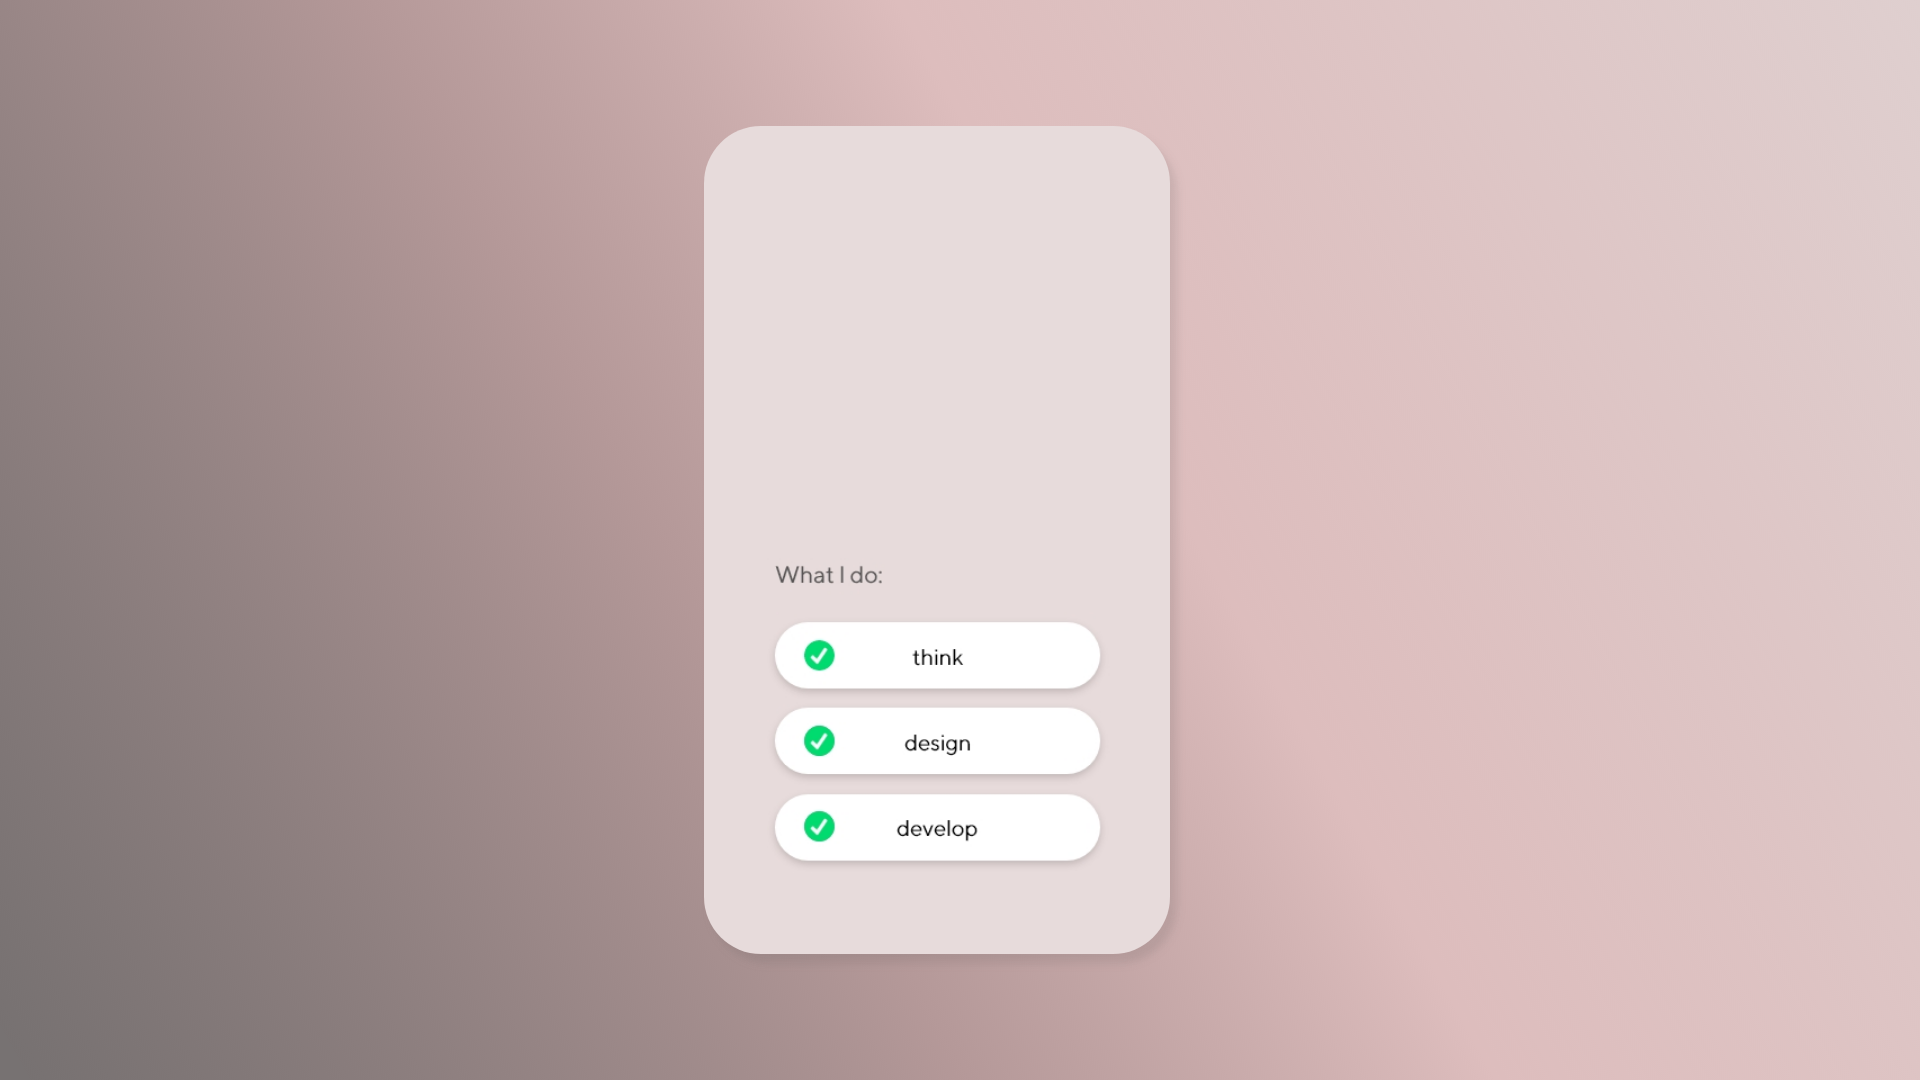
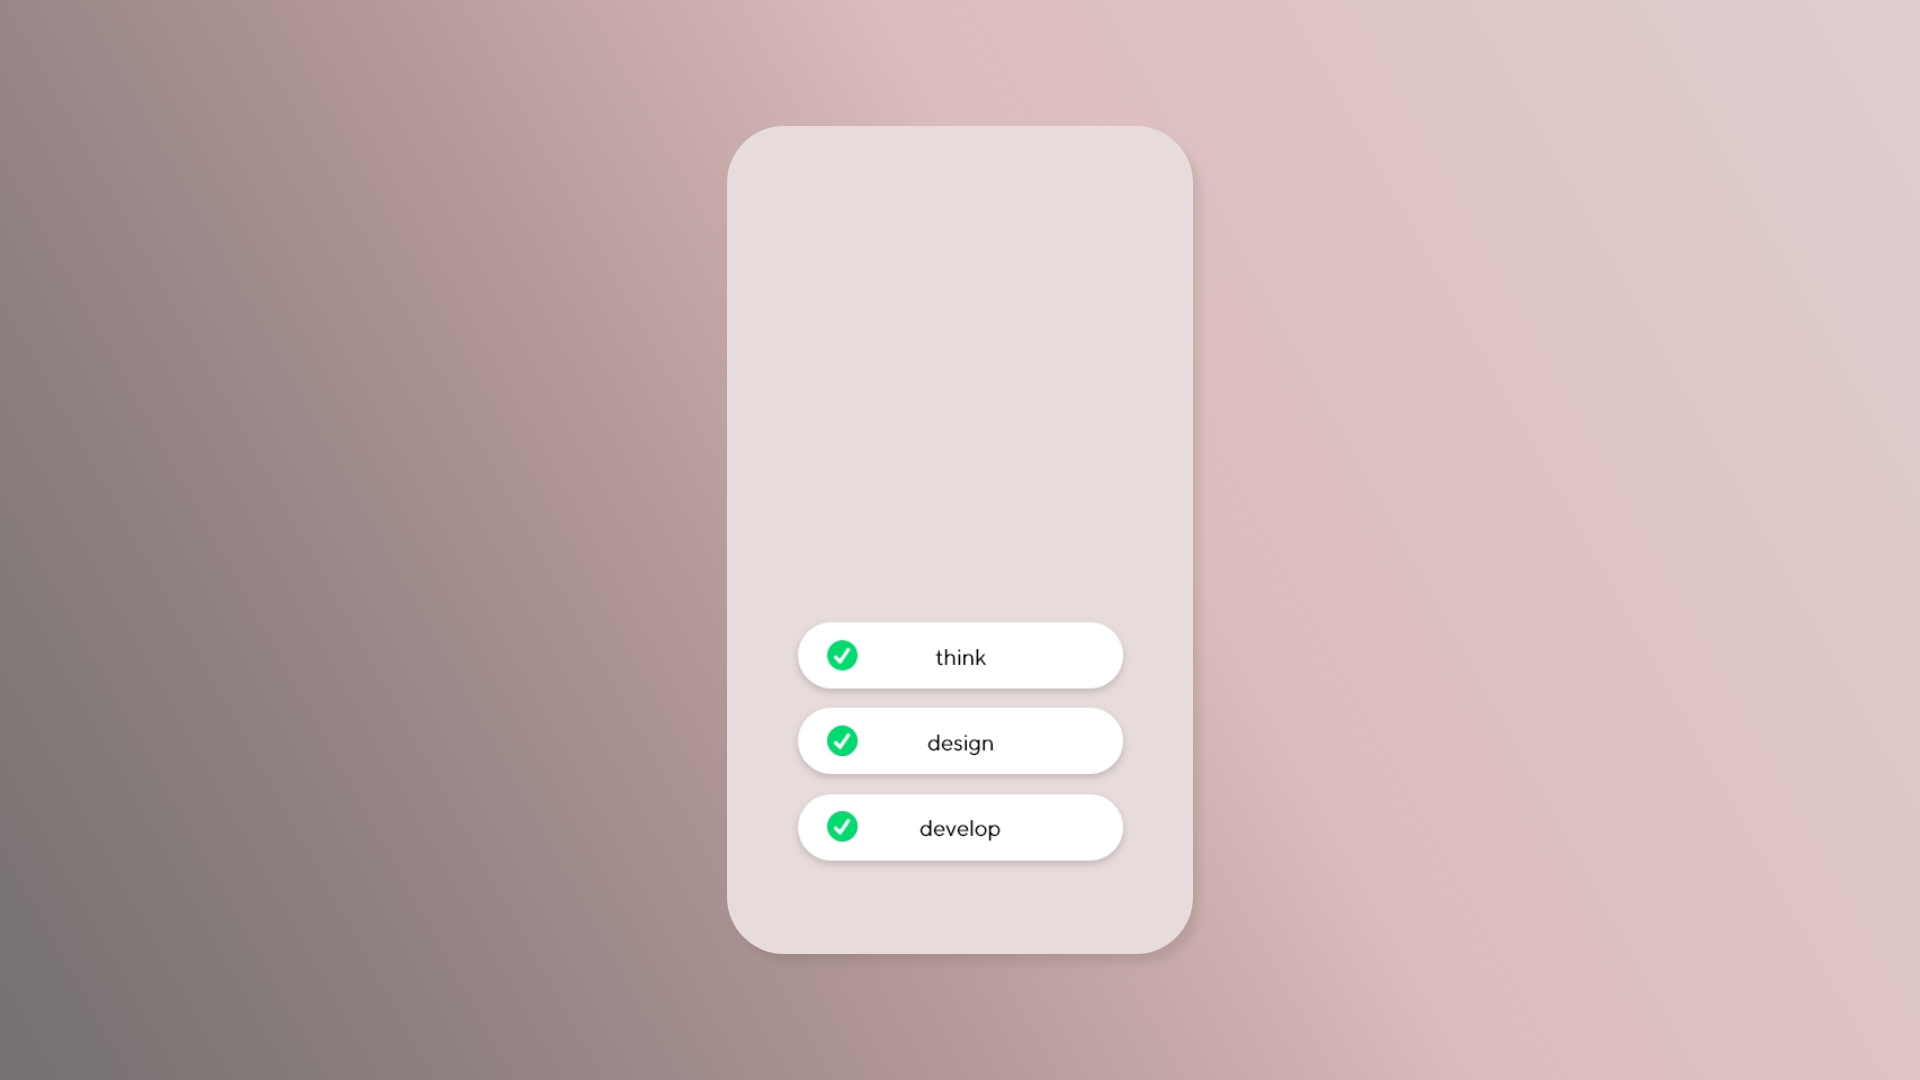
btns

Changed region(s): [[0.3438, 0.1222, 0.5312, 0.8861], [0.5625, 0.1222, 0.625, 0.8861]]

diff --git a/css/stylish-portfolio.min.css b/css/stylish-portfolio.min.css
@@ -15,7 +15,7 @@ i {
 }
 
 .btn-xl {
-  padding: 1rem 2rem;
+  padding: 1rem 1.2rem;
   margin: 5px;
   border-radius: 20px;
 
@@ -121,7 +121,7 @@ h6 {
   font-size: 20px;
   font-family: monospace;
   border-radius: 50px;
-  margin: 30px auto 0 auto;
+  margin: 20px 10% 5px 10%;
 }
 
 .text-typing p {
@@ -155,24 +155,6 @@ h6 {
   }
 }
 
-
-@media (max-width: 492px) {
-  .text-typing {
-    padding: 20px 30px;
-    background: #f5f5f5;
-    font-size: 9px;
-    font-family: monospace;
-    margin: 10px auto 0 auto;
-  }
-
-  .masthead h1 {
-    font-size: 1.5rem !important;
-    margin: 0;
-    padding: 0;
-  }
-
-
-}
 
 
 .masthead h1 {
@@ -415,7 +397,7 @@ footer.footer .social-link:hover {
 .btn-primary {
   background-color: #e4adad !important;
   color: #fff !important;
-  font-size: 14px !important;
+  font-size: 16px !important;
   font-weight: 300 !important;
   border-color: white !important;
   border: 5px;
@@ -457,9 +439,6 @@ footer.footer .social-link:hover {
   font-weight: 700;
 }
 
-.bg-primary {
-  background-color: #e4adad !important;
-}
 
 .text-primary {
   color: #e4adad !important;
@@ -471,4 +450,35 @@ footer.footer .social-link:hover {
 
 .content-section h2 {
   color: #5c5757;
+}
+
+.name{
+  font-size: 30px;
+}
+
+
+@media (max-width: 480px) {
+  .text-typing {
+    padding: 20px 10px;
+    font-size: 9px;
+    margin: 10px auto 0 auto;
+    letter-spacing: -0.4px;
+    
+  }
+
+  .masthead h1 {
+    font-size: 1.5rem !important;
+    margin: 0;
+    padding: 0;
+  }
+
+  .name{
+    font-size: 16px !important;
+  }
+
+  .btn-primary {
+    font-size: 12px !important;
+  }
+
+  
 }

diff --git a/index.html b/index.html
@@ -92,13 +92,13 @@
   <!-- Header -->
   <header class="masthead d-flex">
     <div class="container text-center my-auto">
-      <h1 class="mb-1"> Hello,<br> I'm Vasiliki Doropoulou</h1>
+      <h1 class="mb-1"> Hello,<br><span class="name"> I'm Vasiliki Doropoulou</span></h1>
       <div class="text-typing">
         <p>
-          <em>a tech enthusiast who loves learning, coding and creating in the digital world.</em>
+          <em>a tech enthusiast who loves learning, coding and creating new things.</em>
         </p>
       </div>
-      <a class="btn btn-primary btn-xl js-scroll-trigger" href="#about">Check</a>
+      <a class="btn btn-primary btn-xl js-scroll-trigger" href="#about">What I do</a>
     </div>
     <div class="overlay"></div>
   </header>
